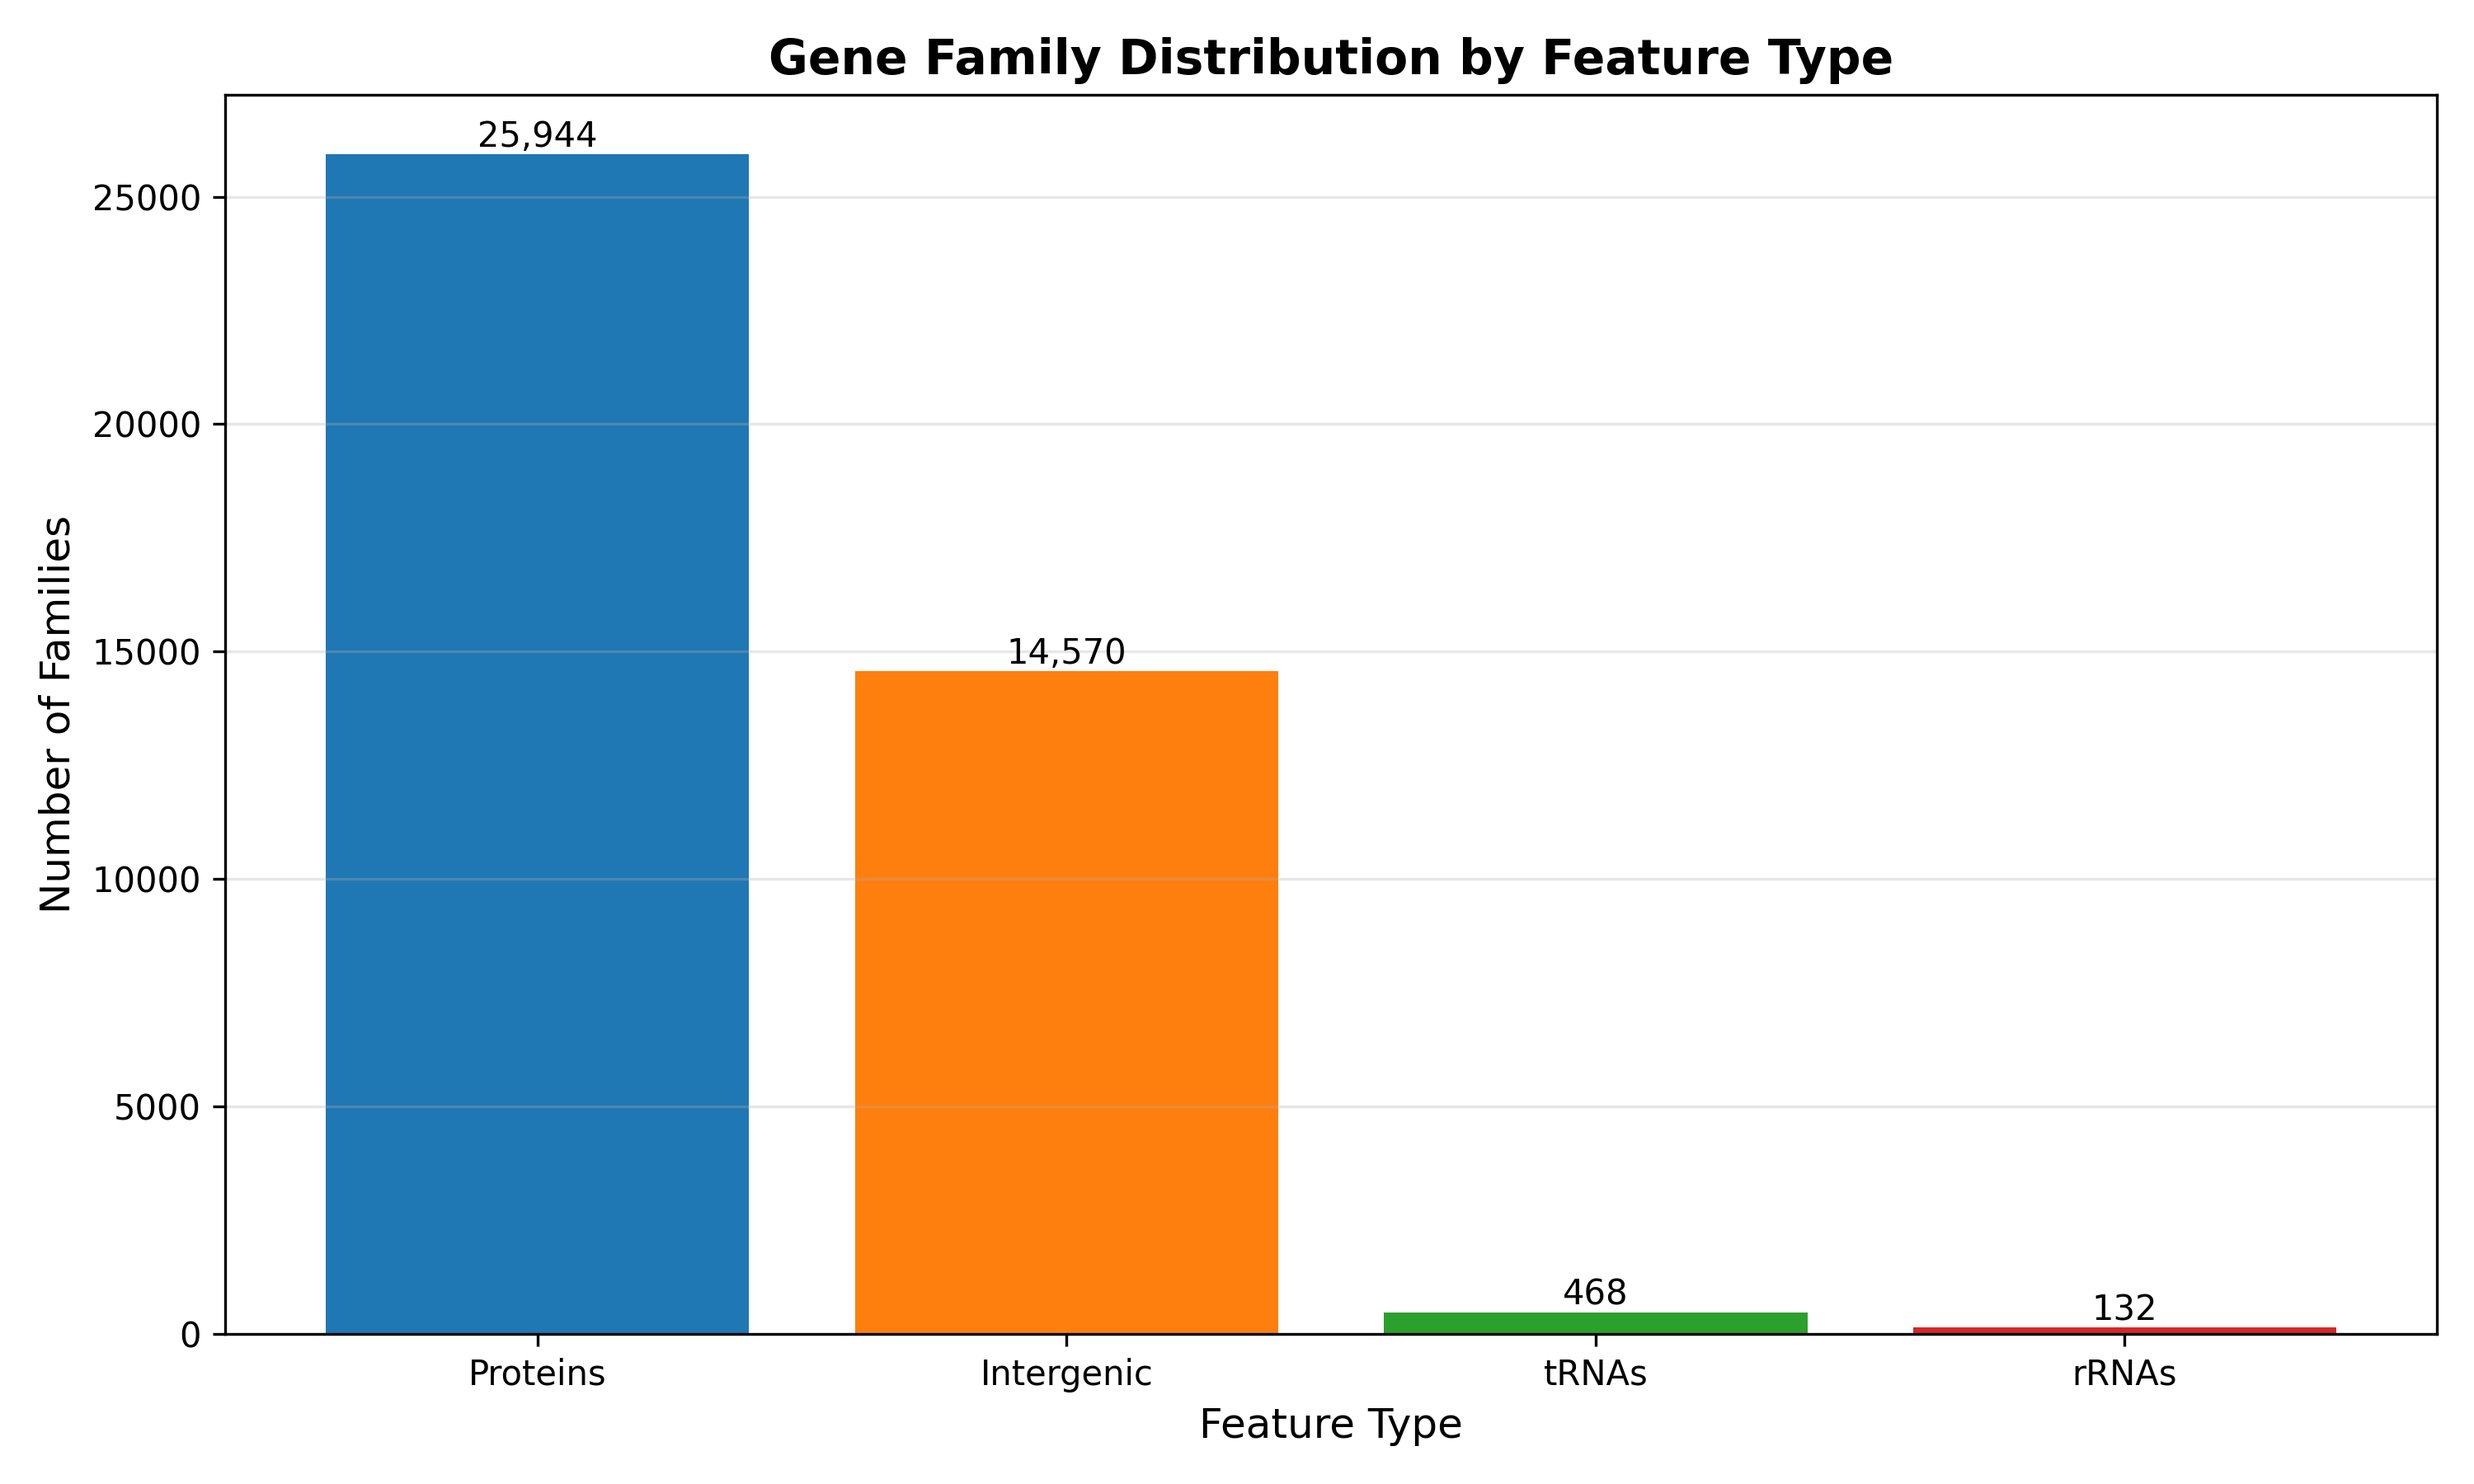
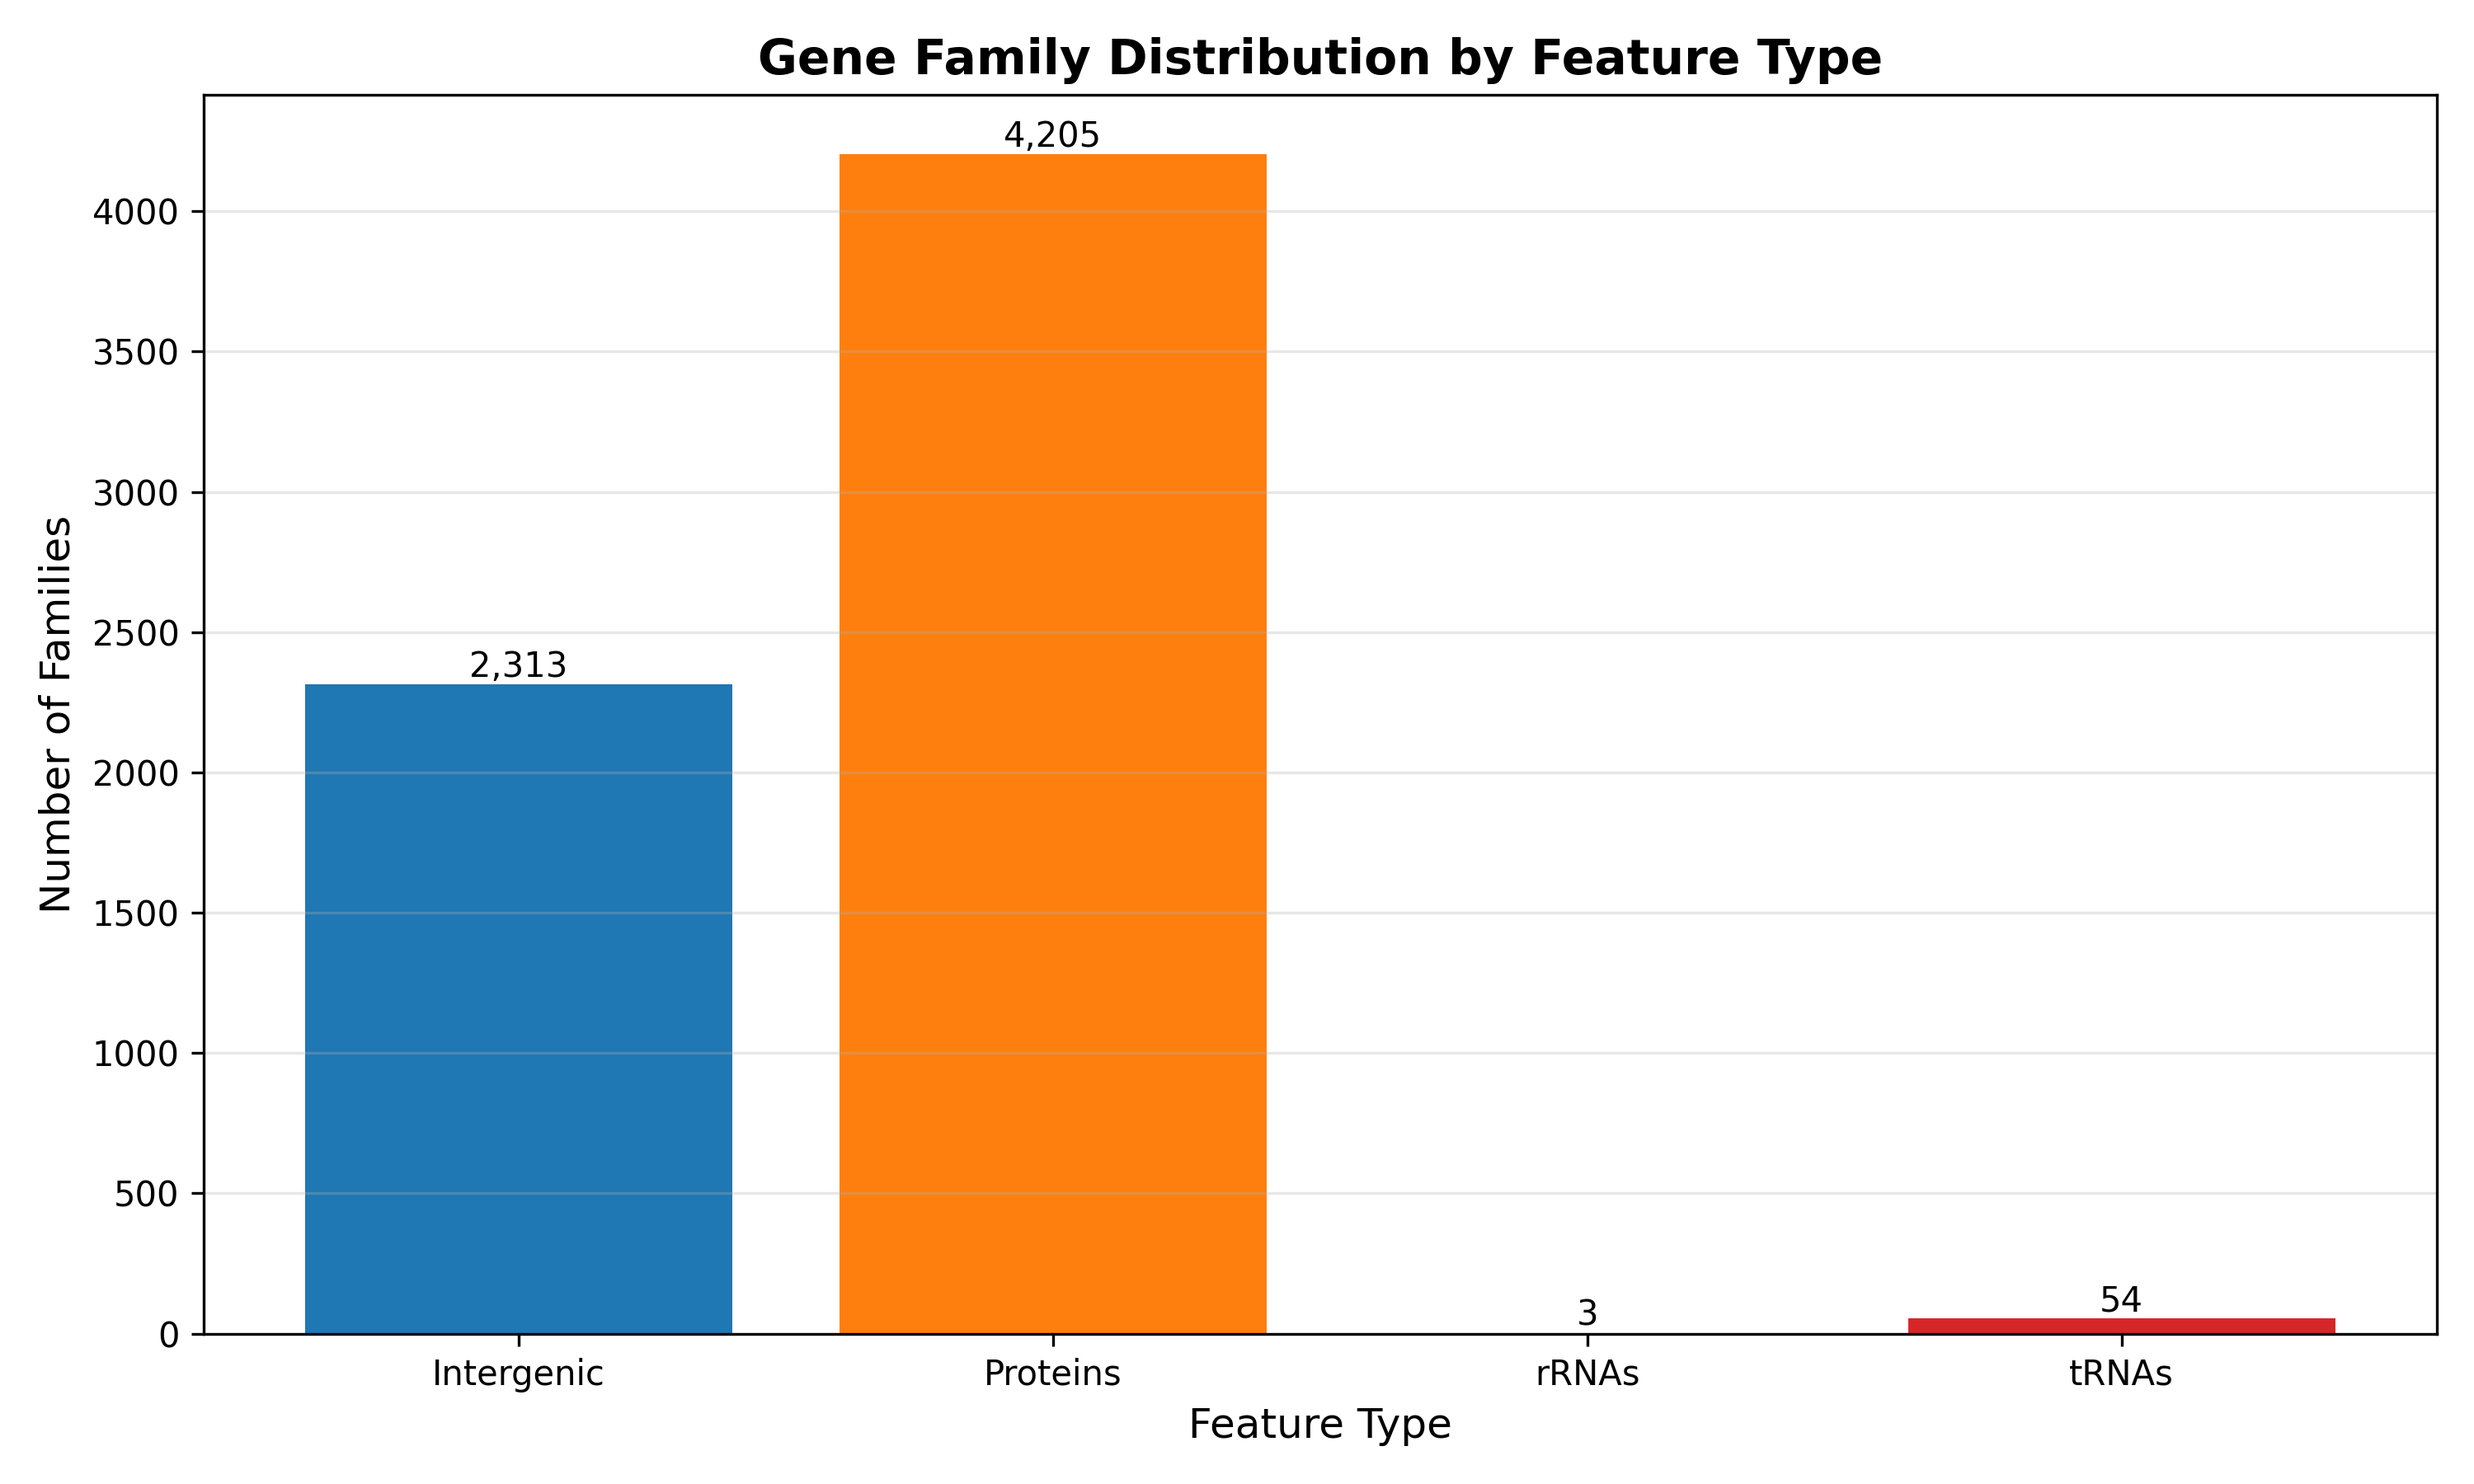
Fix visualization to count families instead of features
Changed generate_viz.py to count gene families from the presence/absence
matrix instead of counting individual features from compact_id_mappings.

Before: Counted 25,944 proteins, 14,570 intergenic, 468 tRNAs, 132 rRNAs
After: Counts 4,205 protein families, 2,313 intergenic families, 54 tRNA families, 3 rRNA families

CRISPR elements (0 families) are now correctly excluded from the graph
as these 6 E. coli genomes contain no CRISPR arrays.

Regenerated and updated feature_type_distribution.png in README_images.

diff --git a/generate_viz.py b/generate_viz.py
@@ -1,0 +1,163 @@
+#!/usr/bin/env python3
+"""Generate visualizations for README from existing pipeline output."""
+
+import json
+from collections import defaultdict
+from pathlib import Path
+
+import matplotlib.pyplot as plt
+import pandas as pd
+import seaborn as sns
+
+# Paths
+output_dir = Path("readme_example_output")
+viz_dir = output_dir / "visualizations"
+viz_dir.mkdir(parents=True, exist_ok=True)
+
+# Load data
+with open(output_dir / "mappings/compact_id_mappings.json") as f:
+    mappings_data = json.load(f)
+    id_mappings = mappings_data.get("compact_to_full", {})
+
+presence_absence = pd.read_csv(
+    output_dir / "matrices/presence_absence_matrix.csv", index_col=0
+)
+
+# Count families by type (extract from family ID prefix in presence/absence matrix)
+family_counts: dict[str, int] = defaultdict(int)
+for family_id in presence_absence.columns:
+    # Family IDs are like: FAM_P1, FAM_I5K, FAM_T42, FAM_R7, FAM_C12
+    if family_id.startswith("FAM_"):
+        prefix = family_id[4]  # Extract type: P, T, R, I, C
+        feature_map = {
+            "P": "Proteins",
+            "T": "tRNAs",
+            "R": "rRNAs",
+            "I": "Intergenic",
+            "C": "CRISPR",
+        }
+        feature_type = feature_map.get(prefix, "Unknown")
+        family_counts[feature_type] += 1
+
+# Filter out zero counts for cleaner visualization
+family_counts_filtered: dict[str, int] = {
+    k: v for k, v in family_counts.items() if v > 0
+}
+
+# Family classification counts
+family_presence_counts = presence_absence.sum(axis=0)
+n_genomes = len(presence_absence)
+core_threshold = 0.95 * n_genomes
+accessory_threshold = 0.15 * n_genomes
+
+core_count = sum(family_presence_counts >= core_threshold)
+accessory_count = sum(
+    (family_presence_counts >= accessory_threshold)
+    & (family_presence_counts < core_threshold)
+)
+cloud_count = sum(family_presence_counts < accessory_threshold)
+
+print(f"Genomes: {n_genomes}")
+print(f"Total families: {len(presence_absence.columns)}")
+print(f"Core families: {core_count}")
+print(f"Accessory families: {accessory_count}")
+print(f"Cloud families: {cloud_count}")
+
+# Figure 2: Feature Type Distribution
+fig, ax = plt.subplots(figsize=(10, 6))
+types = list(family_counts_filtered.keys())
+counts = list(family_counts_filtered.values())
+bars = ax.bar(types, counts, color=["#1f77b4", "#ff7f0e", "#2ca02c", "#d62728"])
+
+for bar in bars:
+    height = bar.get_height()
+    ax.text(
+        bar.get_x() + bar.get_width() / 2.0,
+        height,
+        f"{int(height):,}",
+        ha="center",
+        va="bottom",
+    )
+
+ax.set_xlabel("Feature Type", fontsize=12)
+ax.set_ylabel("Number of Families", fontsize=12)
+ax.set_title("Gene Family Distribution by Feature Type", fontsize=14, fontweight="bold")
+ax.grid(axis="y", alpha=0.3)
+plt.tight_layout()
+plt.savefig(viz_dir / "feature_type_distribution.png", dpi=300)
+print(f"✓ Created {viz_dir}/feature_type_distribution.png")
+plt.close()
+
+# Figure 3: Family Classification Pie Chart
+fig, ax = plt.subplots(figsize=(8, 6))
+sizes = [core_count, accessory_count, cloud_count]
+labels = ["Core", "Accessory", "Cloud"]
+colors = ["#ff9999", "#66b3ff", "#99ff99"]
+explode = (0.05, 0, 0)
+
+ax.pie(
+    sizes,
+    explode=explode,
+    labels=labels,
+    colors=colors,
+    autopct="%1.1f%%",
+    shadow=True,
+    startangle=90,
+)
+ax.set_title("Pangenome Family Classification", fontsize=14, fontweight="bold")
+plt.tight_layout()
+plt.savefig(viz_dir / "family_classification.png", dpi=300)
+print(f"✓ Created {viz_dir}/family_classification.png")
+plt.close()
+
+# Figure 4: Presence/Absence Heatmap (top 50 variable families)
+family_variance = presence_absence.var(axis=0)
+top_variable = family_variance.nlargest(50).index
+heatmap_data = presence_absence[top_variable]
+
+fig, ax = plt.subplots(figsize=(14, 8))
+sns.heatmap(
+    heatmap_data,
+    cmap=["white", "#3182bd"],
+    cbar_kws={"label": "Present"},
+    ax=ax,
+    xticklabels=[f[:15] + "..." if len(f) > 15 else f for f in top_variable],
+    yticklabels=presence_absence.index,
+)
+ax.set_title(
+    "Presence/Absence Pattern (Top 50 Variable Families)",
+    fontsize=14,
+    fontweight="bold",
+)
+ax.set_xlabel("Gene Families", fontsize=12)
+ax.set_ylabel("Genomes", fontsize=12)
+plt.xticks(rotation=90)
+plt.tight_layout()
+plt.savefig(viz_dir / "presence_absence_heatmap.png", dpi=300, bbox_inches="tight")
+print(f"✓ Created {viz_dir}/presence_absence_heatmap.png")
+plt.close()
+
+# Figure 1: Rarefaction curves (simulated from data)
+# Since we don't have rarefaction data, create a simple growth curve
+genomes_range = range(1, n_genomes + 1)
+cumulative_families = []
+for i in genomes_range:
+    subset = presence_absence.iloc[:i]
+    n_families = (subset.sum(axis=0) > 0).sum()
+    cumulative_families.append(n_families)
+
+fig, ax = plt.subplots(figsize=(10, 6))
+ax.plot(
+    genomes_range, cumulative_families, "b-", linewidth=2, marker="o", label="Pangenome"
+)
+ax.set_xlabel("Number of Genomes", fontsize=12)
+ax.set_ylabel("Number of Gene Families", fontsize=12)
+ax.set_title("Pangenome Growth Curve", fontsize=14, fontweight="bold")
+ax.legend(loc="best", fontsize=10)
+ax.grid(True, alpha=0.3)
+plt.tight_layout()
+plt.savefig(viz_dir / "rarefaction_curves.png", dpi=300)
+print(f"✓ Created {viz_dir}/rarefaction_curves.png")
+plt.close()
+
+print("\n✓ All visualizations generated successfully!")
